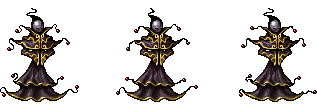
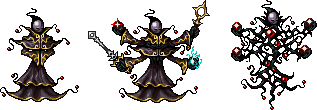
Change assets tiles and player character. Create game class. Create JSON map and add it to the game class. Add character physics and set anims to the moving. Add obstacles and terrain layers.

Changed region(s): [[0.2555, 0.0, 0.6814, 0.9545], [0.7098, 0.0, 1.0, 1.0]]

diff --git a/main.js b/main.js
@@ -1,1 +1,1 @@
-(()=>{var e={type:Phaser.AUTO,width:800,height:600,physics:{default:"arcade",arcade:{gravity:{y:200}}},scene:{preload:function(){this.load.setBaseURL("http://labs.phaser.io"),this.load.image("sky","assets/skies/space3.png"),this.load.image("logo","assets/sprites/phaser3-logo.png"),this.load.image("red","assets/particles/red.png")},create:function(){this.add.image(400,300,"sky");var e=this.add.particles("red").createEmitter({speed:100,scale:{start:1,end:0},blendMode:"ADD"}),s=this.physics.add.image(400,100,"logo");s.setVelocity(100,200),s.setBounce(1,1),s.setCollideWorldBounds(!0),e.startFollow(s)}}};new Phaser.Game(e)})();
+(()=>{"use strict";function e(t){return(e="function"==typeof Symbol&&"symbol"==typeof Symbol.iterator?function(e){return typeof e}:function(e){return e&&"function"==typeof Symbol&&e.constructor===Symbol&&e!==Symbol.prototype?"symbol":typeof e})(t)}function t(e,t){for(var r=0;r<t.length;r++){var a=t[r];a.enumerable=a.enumerable||!1,a.configurable=!0,"value"in a&&(a.writable=!0),Object.defineProperty(e,a.key,a)}}function r(e,t){return(r=Object.setPrototypeOf||function(e,t){return e.__proto__=t,e})(e,t)}function a(t,r){return!r||"object"!==e(r)&&"function"!=typeof r?function(e){if(void 0===e)throw new ReferenceError("this hasn't been initialised - super() hasn't been called");return e}(t):r}function s(e){return(s=Object.setPrototypeOf?Object.getPrototypeOf:function(e){return e.__proto__||Object.getPrototypeOf(e)})(e)}var i=function(e){!function(e,t){if("function"!=typeof t&&null!==t)throw new TypeError("Super expression must either be null or a function");e.prototype=Object.create(t&&t.prototype,{constructor:{value:e,writable:!0,configurable:!0}}),t&&r(e,t)}(c,Phaser.Scene);var i,o,n,y,l=(n=c,y=function(){if("undefined"==typeof Reflect||!Reflect.construct)return!1;if(Reflect.construct.sham)return!1;if("function"==typeof Proxy)return!0;try{return Boolean.prototype.valueOf.call(Reflect.construct(Boolean,[],(function(){}))),!0}catch(e){return!1}}(),function(){var e,t=s(n);if(y){var r=s(this).constructor;e=Reflect.construct(t,arguments,r)}else e=t.apply(this,arguments);return a(this,e)});function c(){return function(e,t){if(!(e instanceof t))throw new TypeError("Cannot call a class as a function")}(this,c),l.call(this,"Introduction")}return i=c,(o=[{key:"preload",value:function(){this.load.image("map-atlas","./assets/images/map/terrain-atlas.png"),this.load.tilemapTiledJSON("map","./assets/images/map/map.json"),this.load.spritesheet("player","./assets/images/characters/player.png",{frameHeight:138.8,frameWidth:109.5})}},{key:"create",value:function(){var e=this.make.tilemap({key:"map"}),t=e.addTilesetImage("map-tileset","map-atlas"),r=(e.createLayer("ground",t,0,0),e.createLayer("obstacles",t,0,0));r.setCollisionByExclusion([-1]),e.createLayer("details",t,0,0),this.player=this.physics.add.sprite(400,12750,"player",64),this.physics.world.bounds.width=e.widthInPixels,this.physics.world.bounds.height=e.heightInPixels,this.player.setCollideWorldBounds(!0),this.cursors=this.input.keyboard.createCursorKeys(),this.anims.create({key:"up",frames:this.anims.generateFrameNumbers("player",{frames:[64,65,66,67,68,69,70,71]}),frameRate:10}),this.anims.create({key:"down",frames:this.anims.generateFrameNumbers("player",{frames:[0,1,2,3,4,5,6,7]}),frameRate:10}),this.anims.create({key:"left",frames:this.anims.generateFrameNumbers("player",{frames:[32,33,34,35,36,37,38,39]}),frameRate:10}),this.anims.create({key:"right",frames:this.anims.generateFrameNumbers("player",{frames:[24,25,26,27,28,29,30,31]}),frameRate:10}),this.anims.create({key:"downLeft",frames:this.anims.generateFrameNumbers("player",{frames:[16,17,18,19,20,21,22,23]}),frameRate:10}),this.anims.create({key:"upLeft",frames:this.anims.generateFrameNumbers("player",{frames:[48,49,50,51,52,53,54,55]}),frameRate:10}),this.anims.create({key:"downRight",frames:this.anims.generateFrameNumbers("player",{frames:[8,9,10,11,12,13,14,15]}),frameRate:10}),this.anims.create({key:"upRight",frames:this.anims.generateFrameNumbers("player",{frames:[40,41,42,43,44,45,46,47]}),frameRate:10}),this.cameras.main.setBounds(0,0,e.widthInPixels,e.heightInPixels),this.cameras.main.startFollow(this.player),this.player.setCollideWorldBounds(!0),this.physics.add.collider(this.player,r)}},{key:"update",value:function(){this.player.body.setVelocity(0),this.player.body.allowGravity=!1,this.moved=!1,this.cursors.left.isDown&&(this.moved=!0,this.player.body.setVelocityX(-150)),this.cursors.right.isDown&&(this.moved=!0,this.player.body.setVelocityX(150)),this.cursors.up.isDown&&(this.moved=!0,this.player.body.setVelocityY(-150)),this.cursors.down.isDown&&(this.moved=!0,this.player.body.setVelocityY(150)),this.moved||this.player.anims.stop(),0==this.player.body.velocity.y&&(this.player.body.velocity.x<0?this.player.anims.play("left",!0):this.player.body.velocity.x>0&&this.player.anims.playReverse("right",!0)),0==this.player.body.velocity.x&&(this.player.body.velocity.y<0?this.player.anims.play("up",!0):this.player.body.velocity.y>0&&this.player.anims.play("down",!0)),0!==this.player.body.velocity.x&&0!==this.player.body.velocity.y&&(this.player.body.velocity.x<0&&this.player.body.velocity.y<0?this.player.anims.play("upLeft",!0):this.player.body.velocity.x>0&&this.player.body.velocity.y>0?this.player.anims.playReverse("downRight",!0):this.player.body.velocity.x>0&&this.player.body.velocity.y<0?this.player.anims.playReverse("upRight",!0):this.player.body.velocity.x<0&&this.player.body.velocity.y>0&&this.player.anims.play("downLeft",!0))}}])&&t(i.prototype,o),c}(),o={type:Phaser.AUTO,width:800,height:600,physics:{default:"arcade",arcade:{gravity:{y:200}}},scene:[i]};new Phaser.Game(o)})();
